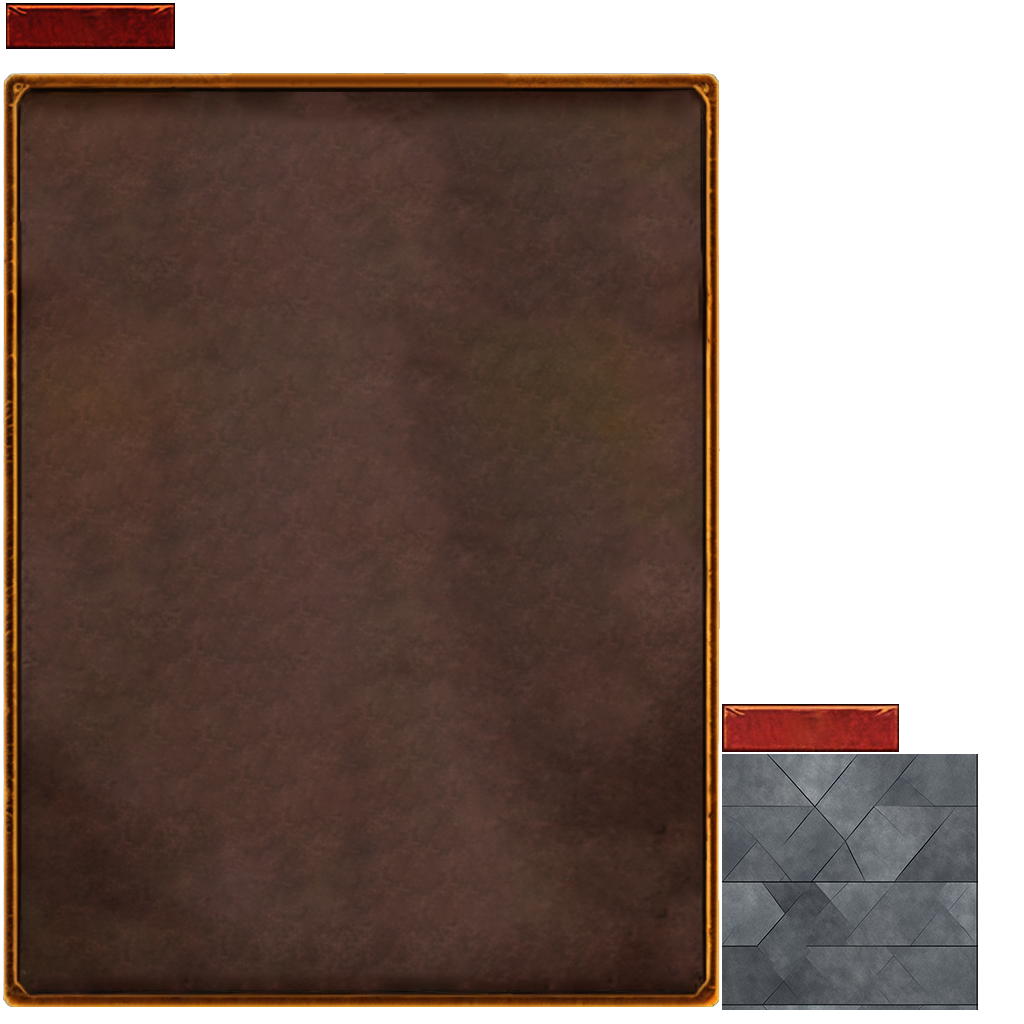
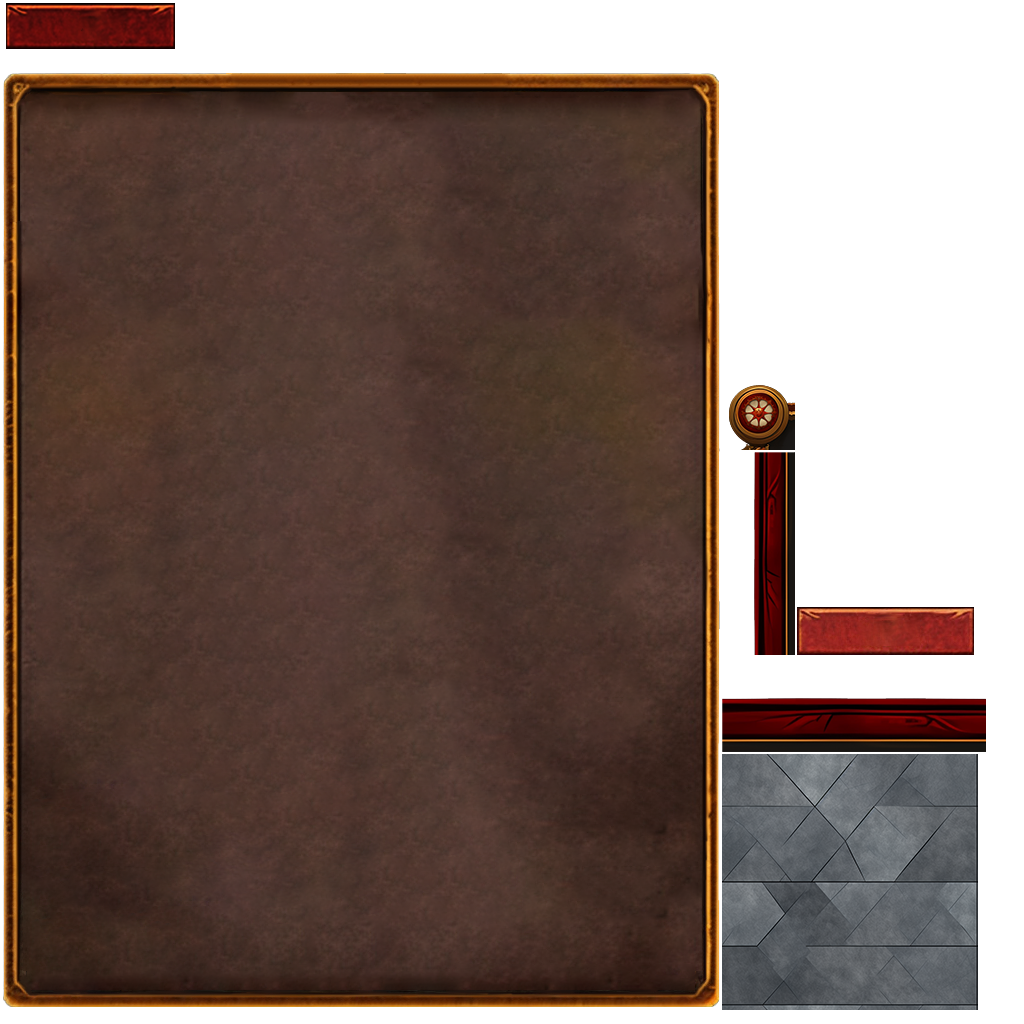
Advanced rendering: anchoring added

Changed region(s): [[0.6875, 0.375, 0.9688, 0.75]]

diff --git a/core/src/com/unciv/ui/rendering/Tiled2DDrawable.kt b/core/src/com/unciv/ui/rendering/Tiled2DDrawable.kt
@@ -8,12 +8,16 @@ import com.badlogic.gdx.graphics.g2d.TextureRegion
 import com.badlogic.gdx.scenes.scene2d.ui.Skin
 import com.badlogic.gdx.scenes.scene2d.utils.TiledDrawable
 import com.badlogic.gdx.utils.JsonValue
+import kotlin.math.sign
 
 enum class Tilability { PLANE, X, Y}
+enum class Anchor {CENTER, LEFT_TOP, TOP, RIGHT_TOP, RIGHT, RIGHT_BOTTOM, BOTTOM, LEFT_BOTTOM, LEFT}
 
 class Tiled2DDrawable : Drawable {
     //private lateinit var texture: Texture
     private lateinit var textureRegion: TextureRegion
+    var anchor = Anchor.LEFT_TOP
+    private var anchorString = ""
     private var tilability = Tilability.PLANE
     private var tilabilityString = ""
 
@@ -26,9 +30,10 @@ class Tiled2DDrawable : Drawable {
 
         //tilability = Tilability.valueOf(jsonData.getString("tilability"))
         tilabilityString = jsonData.getString("tilability")
+        anchorString = jsonData.getString("anchorString")
 
 
-        setTilability()
+        setFromStrings()
 
 
     }
@@ -39,10 +44,10 @@ class Tiled2DDrawable : Drawable {
 
 
     init {
-        setTilability()
+        setFromStrings()
     }
 
-    private fun setTilability() {
+    private fun setFromStrings() {
 
         if (tilabilityString != "")
             tilability = when (tilabilityString) {
@@ -52,48 +57,100 @@ class Tiled2DDrawable : Drawable {
                 else -> throw IllegalArgumentException("Invalid tilability value in Skin.json")
             }
 
+        if (anchorString != "")
+            anchor = when (anchorString) {
+                "CENTER" -> Anchor.CENTER
+                "LeftTop" -> Anchor.LEFT_TOP
+                "RightTop" -> Anchor.RIGHT_TOP
+                "Top" -> Anchor.TOP
+                "LeftBottom" -> Anchor.LEFT_BOTTOM
+                "Bottom" -> Anchor.BOTTOM
+                "RightBottom" -> Anchor.RIGHT_BOTTOM
+                "Left" -> Anchor.LEFT
+                "Right" -> Anchor.RIGHT
+                else -> throw IllegalArgumentException("Invalid anchorString value in Skin.json")
+            }
+
     }
 
     override fun draw(batch: Batch, x: Float, y: Float, width: Float, height: Float) {
+        setFromStrings()
+        var tileWidth = textureRegion.regionWidth.toFloat()
+        var tileHeight = textureRegion.regionHeight.toFloat()
 
-        setTilability()
-        val tileWidth = textureRegion.regionWidth.toFloat()
-        val tileHeight = textureRegion.regionHeight.toFloat()
+        // TODO: we need to make different anchoring here
+        // TODO: add mirrored tiling (ABBAABBA instead of ABABABAB)
+        var startX: Int = 0
+        var startY: Int = 0
+        var finishX: Int = 0
+        var finishY: Int = 0
+        var stepX: Int = 0
+        var stepY: Int = 0
+        var drawX: Int = 0
+        var drawY: Int = 0
+
+        when(anchor){
+            Anchor.LEFT_TOP, Anchor.LEFT_BOTTOM, Anchor.LEFT, Anchor.CENTER, Anchor.TOP, Anchor.BOTTOM -> {
+                stepX = tileWidth.toInt()
+                startX = 0
+                finishX = width.toInt()
+            }
+            Anchor.RIGHT, Anchor.RIGHT_TOP, Anchor.RIGHT_BOTTOM -> {
+                stepX = -tileWidth.toInt()
+                startX = width.toInt()
+                finishX = 0
+                tileWidth *= -1
+            }
+        }
+        drawX = startX
+
+
+        when(anchor){
+            Anchor.LEFT_TOP, Anchor.TOP, Anchor.RIGHT_TOP, Anchor.CENTER, Anchor.LEFT, Anchor.RIGHT -> {
+                stepY = -tileHeight.toInt()
+                startY = height.toInt()
+                finishY = 0
+                tileHeight *= -1
+
+            }
+            Anchor.LEFT_BOTTOM, Anchor.BOTTOM, Anchor.RIGHT_BOTTOM -> {
+                stepY = tileHeight.toInt()
+                startY = 0
+                finishY = height.toInt()
+
+            }
+        }
+        drawY = startY
 
         when (tilability) {
             Tilability.PLANE ->
-                for (drawX in 0 until width.toInt() step tileWidth.toInt())
-                    for (drawY in 0 until height.toInt() step tileHeight.toInt()) {
+                while (drawX * sign(stepX.toFloat()) < finishX * sign(stepX.toFloat())) {
+                    drawY = startY
+                    while (drawY * sign(stepY.toFloat()) < finishY * sign(stepY.toFloat())) {
                         batch.draw(textureRegion, x + drawX, y + drawY, tileWidth, tileHeight)
+                        drawY += stepY
                     }
+                    drawX += stepX
+                }
             Tilability.X ->
-                for (drawX in 0 until width.toInt() step tileWidth.toInt())
-                    batch.draw(textureRegion, x + drawX, y, tileWidth, tileHeight)
+                while (drawX * sign(stepX.toFloat()) < finishX * sign(stepX.toFloat())) {
+                    batch.draw(textureRegion, x + drawX, y + drawY, tileWidth, tileHeight)
+                    drawX += stepX
+                }
             Tilability.Y ->
-                for (drawY in 0 until height.toInt() step tileHeight.toInt()) {
-                    batch.draw(textureRegion, x, y + drawY, tileWidth, tileHeight)
+                while (drawY * sign(stepY.toFloat()) < finishY * sign(stepY.toFloat())) {
+                    batch.draw(textureRegion, x + drawX, y + drawY, tileWidth, tileHeight)
+                    drawY += stepY
                 }
         }
-/*
-
-                } == Tilability.PLANE || tilability == Tilability.X)
-            for (drawX in 0 until width.toInt() step tileWidth.toInt()) {
-                if (tilability == Tilability.PLANE || tilability == Tilability.Y)
-                    for (drawY in 0 until height.toInt() step tileHeight.toInt()) {
-                        batch.draw(textureRegion, x + drawX, y + drawY, tileWidth, tileHeight)
-                    }
-            }
-
-
- */
     }
 
     override fun getLeftWidth() = 0f
     override fun getRightWidth() = 0f
     override fun getTopHeight() = 0f
     override fun getBottomHeight() = 0f
-    override fun getMinWidth() = 0f
-    override fun getMinHeight() = 0f
+    override fun getMinWidth() = textureRegion.regionWidth.toFloat()
+    override fun getMinHeight() = textureRegion.regionHeight.toFloat()
 
     override fun setLeftWidth(leftWidth: Float) {}
     override fun setRightWidth(rightWidth: Float) {}
@@ -101,4 +158,5 @@ class Tiled2DDrawable : Drawable {
     override fun setBottomHeight(bottomHeight: Float) {}
     override fun setMinWidth(minWidth: Float) {}
     override fun setMinHeight(minHeight: Float) {}
+
 }

diff --git a/core/src/com/unciv/ui/rendering/TilableFrame.kt b/core/src/com/unciv/ui/rendering/TilableFrame.kt
@@ -1,0 +1,105 @@
+package com.unciv.ui.rendering
+
+import com.badlogic.gdx.graphics.g2d.Batch
+import com.badlogic.gdx.graphics.g2d.TextureRegion
+import com.badlogic.gdx.scenes.scene2d.ui.Skin
+import com.badlogic.gdx.scenes.scene2d.utils.Drawable
+import com.badlogic.gdx.utils.JsonValue
+
+class TilableFrame : Drawable{
+
+    var background: Tiled2DDrawable? = null
+    var leftTopDrawable: Drawable? = null
+    var rightTopDrawable: Drawable? = null
+    var topDrawable: Tiled2DDrawable? = null
+    var leftDrawable: Tiled2DDrawable? = null
+    var rightDrawable: Tiled2DDrawable? = null
+    // TODO: add here untilable parts or corners (leftTopBorder, etc.)
+
+    constructor() : super() {
+        // no-arg constructor for JSON instantiation
+    }
+
+    constructor(skin: Skin, jsonData: JsonValue) : this() {
+        //background = Tiled2DDrawable(skin)
+        //textureRegion = skin.getRegion(jsonData.getString("textureRegion"))
+
+        background = skin.get(jsonData.getString("background"), Tiled2DDrawable::class.java)
+        leftTopDrawable = skin.get(jsonData.getString("leftTopDrawable"), Drawable::class.java)
+        topDrawable = skin.get(jsonData.getString("topDrawable"), Tiled2DDrawable::class.java)
+        leftDrawable = skin.get(jsonData.getString("leftDrawable"), Tiled2DDrawable::class.java)
+
+
+    }
+
+    constructor(region: TextureRegion) {
+    }
+
+
+    init {
+    }
+
+
+
+    override fun draw(batch: Batch, x: Float, y: Float, width: Float, height: Float) {
+        background?.draw(batch,x,y,width,height)
+
+        if(topDrawable != null) {
+            topDrawable?.draw(
+                batch,
+                x,
+                y + height - topDrawable?.minHeight!!,
+                width,
+                topDrawable?.minHeight!!
+            )
+        }
+
+        if(leftDrawable != null) {
+            leftDrawable?.draw(
+                batch,
+                x,
+                y,
+                leftDrawable?.minWidth!!,
+                height
+            )
+            if (rightDrawable == null){
+                leftDrawable?.anchor = Anchor.RIGHT
+                leftDrawable?.draw(
+                    batch,
+                    x+width-leftDrawable?.minWidth!!,
+                    y,
+                    leftDrawable?.minWidth!!,
+                    height
+                )
+                leftDrawable?.anchor = Anchor.LEFT
+            }
+        }
+
+        if(leftTopDrawable != null) {
+           // leftTopDrawable.leftWidth
+            leftTopDrawable?.draw(batch, x, y + height - leftTopDrawable?.minHeight!!, leftTopDrawable?.minWidth!!, leftTopDrawable?.minHeight!!)
+            if(rightTopDrawable != null){
+                rightTopDrawable?.draw(batch, x + width - rightTopDrawable?.minWidth!!, y + height - rightTopDrawable?.minHeight!!, rightTopDrawable?.minWidth!!, rightTopDrawable?.minHeight!!)
+
+            }
+            else {
+                leftTopDrawable?.draw(batch, x + width, y + height - leftTopDrawable?.minHeight!!, -leftTopDrawable?.minWidth!!, leftTopDrawable?.minHeight!!)
+            }
+        }
+    }
+
+    override fun getLeftWidth() = 0f
+    override fun getRightWidth() = 0f
+    override fun getTopHeight() = 0f
+    override fun getBottomHeight() = 0f
+    override fun getMinWidth() = 0f
+    override fun getMinHeight() = 0f
+
+    override fun setLeftWidth(leftWidth: Float) {}
+    override fun setRightWidth(rightWidth: Float) {}
+    override fun setTopHeight(topHeight: Float) {}
+    override fun setBottomHeight(bottomHeight: Float) {}
+    override fun setMinWidth(minWidth: Float) {}
+    override fun setMinHeight(minHeight: Float) {}
+
+}

diff --git a/core/src/com/unciv/ui/heroscreen/HeroOverviewScreen.kt b/core/src/com/unciv/ui/heroscreen/HeroOverviewScreen.kt
@@ -9,6 +9,7 @@ import com.badlogic.gdx.scenes.scene2d.utils.NinePatchDrawable
 import com.unciv.Constants
 import com.unciv.logic.map.MapUnit
 import com.unciv.ui.overviewscreen.EmpireOverviewTab
+import com.unciv.ui.rendering.TilableFrame
 import com.unciv.ui.rendering.Tiled2DDrawable
 import com.unciv.ui.utils.BaseScreen
 import com.unciv.ui.utils.KeyCharAndCode
@@ -51,7 +52,8 @@ class HeroOverviewScreen(
 
         val pageObject = Table(BaseScreen.skin)
         //pageObject.background = BaseScreen.skin.get("fantasy_background", NinePatchDrawable::class.java)
-        pageObject.background = BaseScreen.skin.get("tiled_fantasy_background", Tiled2DDrawable::class.java)
+        //pageObject.background = BaseScreen.skin.get("tiled_fantasy_background", Tiled2DDrawable::class.java)
+        pageObject.background = BaseScreen.skin.get("fantasy_frame", TilableFrame::class.java)
 
 
         val font = BaseScreen.skin.get("smallOldLondon", BitmapFont::class.java)
